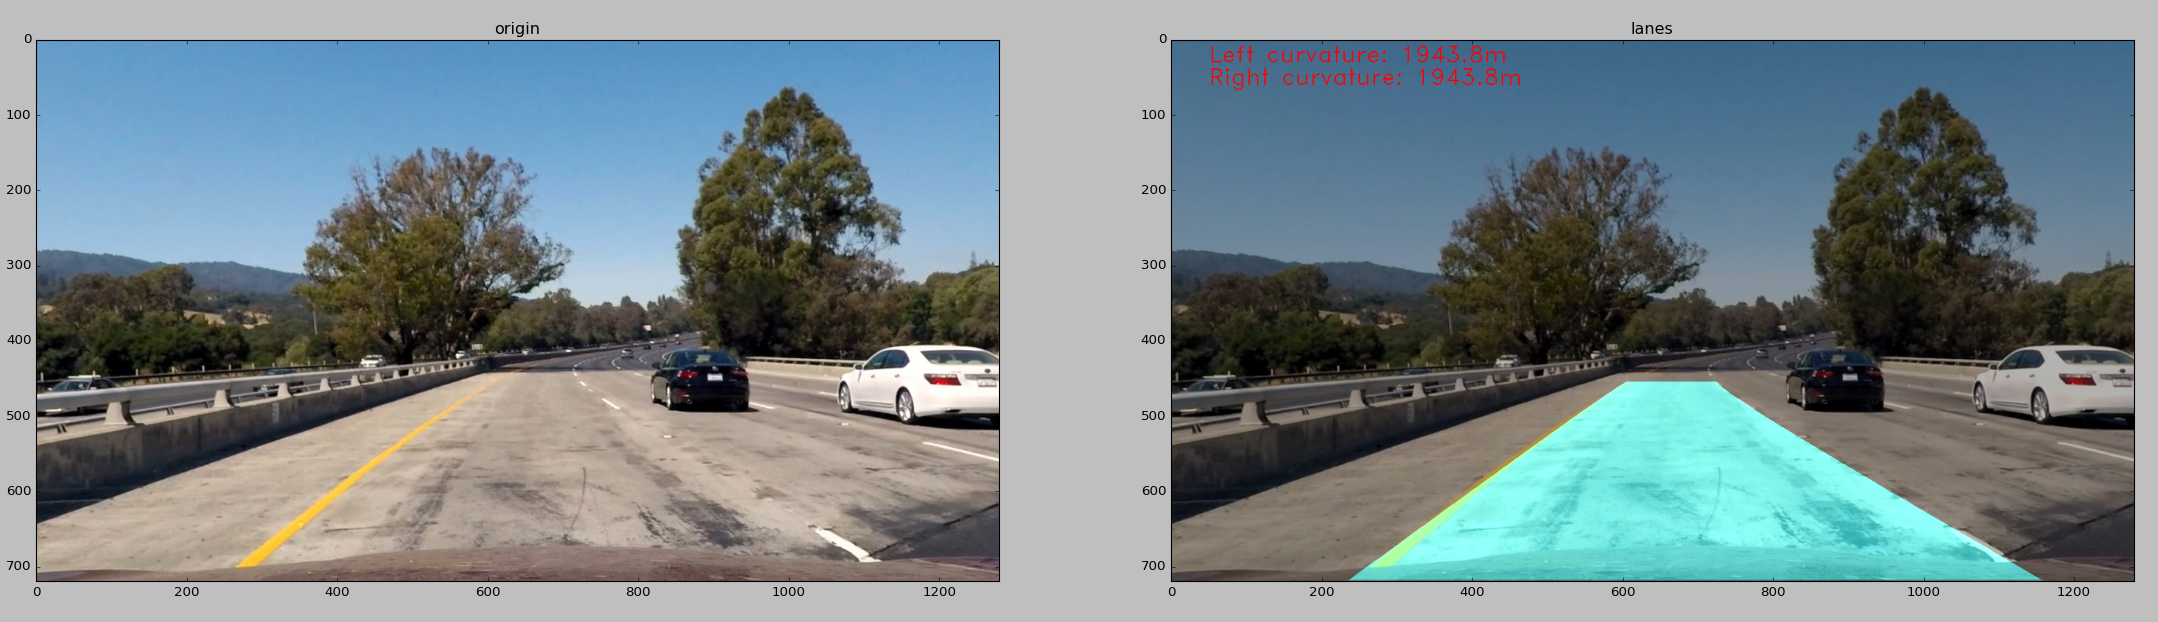
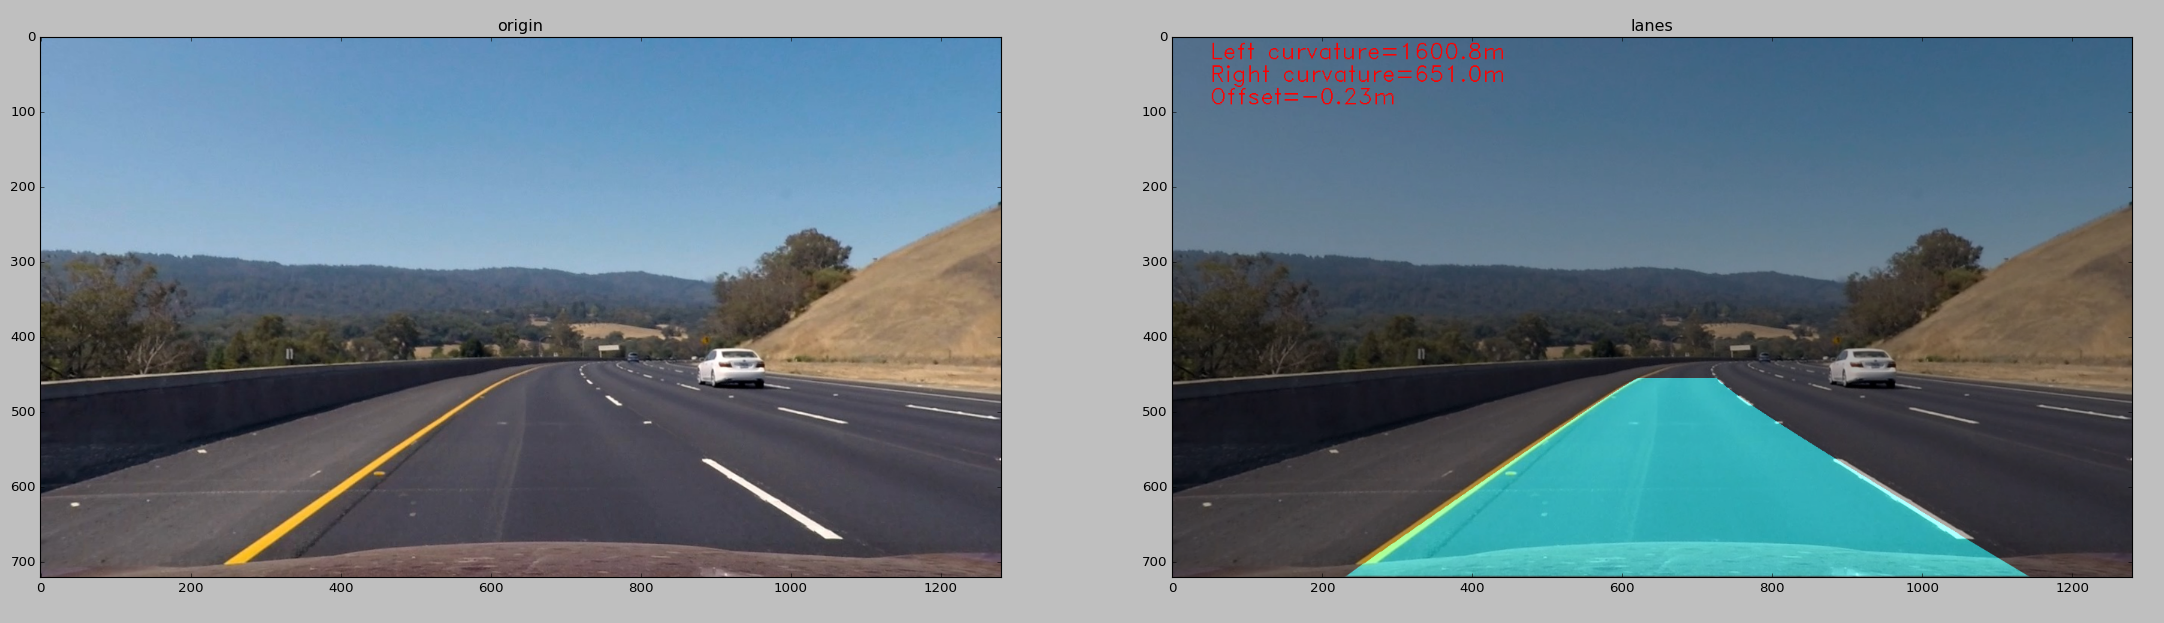
Continue description

diff --git a/pipeline.py b/pipeline.py
@@ -74,8 +74,12 @@ class Lane():
             show_images(im, cpy, 'origin', 'filled warp', 'Fill lanes')
         return fill
     @staticmethod
-    def center(llane, rlane, y=0):
-        return (llane.cross(y) + rlane.cross(y)) // 2
+    def offset(llane, rlane, frame_width=0, y=0):
+        lx = llane.cross(y)
+        rx = rlane.cross(y)
+        scale = 3.7 / np.abs(lx - rx)
+        center = np.mean([lx, rx])
+        return (frame_width/2 - center) * scale
 
 class FrameLanePipeline():
     def __init__(self):
@@ -84,23 +88,20 @@ class FrameLanePipeline():
         self.left_line = None
         self.right_line = None
     def process(self, frame, show=False):
-        """
-        Process function takes RGB image frame.
-        It undistorts and warpes frame to eye bird view. 
-        """
         im = clb.undistort(frame);
         warped = prsp.warp(im)
         masked = custom_mask.apply(warped, show=show)
         lp, rp = self._find_lane_points(masked, num_strips=10, radius=70, show=show)
         height = masked.shape[0]
+        width = masked.shape[1]
         llane = Lane(lp, end=height-1, num=height)
         rlane = Lane(rp, end=height-1, num=height)
-        center = Lane.center(llane, rlane, y=masked.shape[0]-1)
+        offset = Lane.offset(llane, rlane, y=masked.shape[0]-1, frame_width=width)
         lcurv = llane.curvature(height // 2)
         rcurv = rlane.curvature(height // 2)
         fill = Lane.fill_lanes(warped, llane, rlane, show=show)
-        return self._final_frame(im, fill, lcurv, rcurv, show=show)
-    def _final_frame(self, im, fill, lcurv, rcurv,
+        return self._final_frame(im, fill, lcurv, rcurv, offset, show=show)
+    def _final_frame(self, im, fill, lcurv, rcurv, offset,
                      font=cv.FONT_HERSHEY_DUPLEX,
                      scale_font=1, color_font=(255,0,0), 
                      show=False):
@@ -108,18 +109,26 @@ class FrameLanePipeline():
         out = im.copy()
         out = cv.addWeighted(out, 0.7, fill, 0.5, 0)
         xtxt = 50
-        lcurv_text = 'Left curvature: {0:.01f}m'.format(lcurv)
-        rcurv_text = 'Right curvature: {0:.01f}m'.format(lcurv)
+        lcurv_text = 'Left curvature={0:.01f}m'.format(lcurv)
+        rcurv_text = 'Right curvature={0:.01f}m'.format(rcurv)
+        offset_text = 'Offset={0:.02f}m'.format(offset)
         out = cv.putText(out, lcurv_text, (xtxt, 30), font, scale_font, color_font)
         out = cv.putText(out, rcurv_text, (xtxt, 60), font, scale_font, color_font)
+        out = cv.putText(out, offset_text, (xtxt, 90), font, scale_font, color_font)
         if show == True:
             show_images(im, out, 'origin', 'lanes', 'Lanes detected')
         return out
-    def _find_peaks(self, strip_im):
+    def _median_from_distr(self, arr):
+        return np.median(np.concatenate([[i]*v for i, v in enumerate(arr)]))
+    def _find_peaks(self, strip_im, mode='argmax'):
         mid = np.int32(strip_im.shape[1] * .5)
-        lx = strip_im[:,:mid].sum(axis=0).argmax()
-        rx = strip_im[:,mid:].sum(axis=0).argmax() + mid
-        return lx, rx
+        if mode == 'argmax':
+            lx = strip_im[:,:mid].sum(axis=0).argmax()
+            rx = strip_im[:,mid:].sum(axis=0).argmax()
+        elif mode == 'median':
+            lx = np.int32(self._median_from_distr(strip_im[:,:mid].sum(axis=0)))
+            rx = np.int32(self._median_from_distr(strip_im[:,mid:].sum(axis=0)))
+        return lx, rx + mid
     def _nonzero_points(self, nonz, left=((0,200),(720,600)), right=((0,800), (720,1200))):
         # lty => left top y
         # ltx => left top x
@@ -132,7 +141,9 @@ class FrameLanePipeline():
         nonz_l = nonz[:, l]
         nonz_r = nonz[:, r]
         return (nonz_l[0], nonz_l[1]), (nonz_r[0], nonz_r[1])
-    def _find_lane_points(self, im, num_strips=10, radius=70, show=False):
+    def _find_lane_points(self, im, num_strips=10,
+                          radius=80, max_radius=100,
+                          peak_diff=60, show=False):
         strip_height = im.shape[0] // num_strips
         heights = [None] * num_strips
         strips = [None] * num_strips
@@ -149,14 +160,24 @@ class FrameLanePipeline():
         lpeak, rpeak = 0, 0
         for i in range(num_strips):
             if i == 0:
-                lpeak, rpeak = self._find_peaks(im)
-                rad = 100
+                lpeak, rpeak = self._find_peaks(im, mode='argmax')
+                lrad, rrad = max_radius, max_radius
             else:
-                lpeak, rpeak = self._find_peaks(strips[i])
-                rad = radius
+                lpeak_prev, rpeak_prev = peaks[i-1]
+                lpeak, rpeak = self._find_peaks(strips[i], mode='argmax')
+                if np.abs(lpeak_prev - lpeak) > peak_diff:
+                    lpeak = lpeak_prev
+                    lrad = max_radius
+                else:
+                    lrad = radius
+                if np.abs(rpeak_prev - rpeak) > peak_diff:
+                    rpeak = rpeak_prev
+                    rrad = max_radius
+                else:
+                    rrad = radius
+            lbox = ((heights[i][0], lpeak - lrad), (heights[i][1], lpeak + lrad))
+            rbox = ((heights[i][0], rpeak - rrad), (heights[i][1], rpeak + rrad))
             peaks[i] = (lpeak, rpeak)
-            lbox = ((heights[i][0], lpeak - rad), (heights[i][1], lpeak + rad))
-            rbox = ((heights[i][0], rpeak - rad), (heights[i][1], rpeak + rad))
             if show == True:
                 top, bot = lbox[0], lbox[1]
                 cpy = cv.rectangle(cpy, (top[1], top[0]), (bot[1], bot[0]), (i+1,0,0), 2)

diff --git a/README.md b/README.md
@@ -228,11 +228,131 @@ Binary representation:
 ### Detect lane pixels and fit to find the lane boundary.
 #### Criteria: Describe how (and identify where in your code) you identified lane-line pixels and fit their positions with a polynomial?
 
+I used histogram approach to find relevant pixels for right and left lanes. I decided to concentrate on this approach instead of way to sticking and relying on previous found left and right polynomial lines. I just found that it does add accuracy for my model of finding lanes.
+
+
+Let's check the code. Below you can see the pipeline of processing a frame. First it takes frame undistortes it, creates a bird-view, applies masks then searches lanes pixels, builds poly lines for found left and right pixels and finally calculates offset and curvature.
+
+```python
+## pipeline.py
+
+def process(self, frame, show=False):
+    im = clb.undistort(frame);
+    warped = prsp.warp(im)
+    masked = custom_mask.apply(warped, show=show)
+    lp, rp = self._find_lane_points(masked, num_strips=10, radius=70, show=show)
+    height = masked.shape[0]
+    width = masked.shape[1]
+    llane = Lane(lp, end=height-1, num=height)
+    rlane = Lane(rp, end=height-1, num=height)
+    offset = Lane.offset(llane, rlane, y=masked.shape[0]-1, frame_width=width)
+    lcurv = llane.curvature(height // 2)
+    rcurv = rlane.curvature(height // 2)
+    fill = Lane.fill_lanes(warped, llane, rlane, show=show)
+    return self._final_frame(im, fill, lcurv, rcurv, offset, show=show)
+```
+
+The warped and masked frame is splitted on 10 equal stripes. Each stripe is divided on two halves along horizontal line, then sum of pixels along y axes is taken and, using `numpy.argmax()` the peak of histogram is found. Once left and right peaks have been gotten the algorithm produces bound boxes for points which should stay for polynomial fitting. If gotten peaks lie far from previous peaks, it replaces found peaks with previous values. 
+
+```python
+## pipeline.py
+def _find_lane_points(self, im, num_strips=10,
+                      radius=80, max_radius=100,
+                      peak_diff=60, show=False):
+    strip_height = im.shape[0] // num_strips
+    heights = [None] * num_strips
+    strips = [None] * num_strips
+    for i in range(num_strips):
+        s, e = i * strip_height, (i+1) * strip_height
+        heights[-i-1] = (s, e)
+        strips[-i-1] = im[s:e, :]
+    ly, lx = [[]] * num_strips, [[]] * num_strips
+    ry, rx = [[]] * num_strips, [[]] * num_strips
+    nonzeros = np.array(im.nonzero())
+    peaks = [None] * num_strips
+    if show == True:
+        cpy = im.copy()
+    lpeak, rpeak = 0, 0
+    for i in range(num_strips):
+        if i == 0:
+            lpeak, rpeak = self._find_peaks(im, mode='argmax')
+            lrad, rrad = max_radius, max_radius
+        else:
+            lpeak_prev, rpeak_prev = peaks[i-1]
+            lpeak, rpeak = self._find_peaks(strips[i], mode='argmax')
+            if np.abs(lpeak_prev - lpeak) > peak_diff:
+                lpeak = lpeak_prev
+                lrad = max_radius
+            else:
+                lrad = radius
+            if np.abs(rpeak_prev - rpeak) > peak_diff:
+                rpeak = rpeak_prev
+                rrad = max_radius
+            else:
+                rrad = radius
+        lbox = ((heights[i][0], lpeak - lrad), (heights[i][1], lpeak + lrad))
+        rbox = ((heights[i][0], rpeak - rrad), (heights[i][1], rpeak + rrad))
+        peaks[i] = (lpeak, rpeak)
+        if show == True:
+            top, bot = lbox[0], lbox[1]
+            cpy = cv.rectangle(cpy, (top[1], top[0]), (bot[1], bot[0]), (i+1,0,0), 2)
+            top, bot = rbox[0], rbox[1]
+            cpy = cv.rectangle(cpy, (top[1], top[0]), (bot[1], bot[0]), (i+1,0,0), 2)
+        (ly[i], lx[i]), (ry[i], rx[i]) = self._nonzero_points(nonzeros, left=lbox, right=rbox)
+    left = (np.concatenate(ly), np.concatenate(lx))
+    right = (np.concatenate(ry), np.concatenate(rx))
+    if show == True:
+        filtered = np.zeros(im.shape[:2])
+        filtered[left[0],left[1]] = 1
+        filtered[right[0],right[1]] = 1
+        show_images(filtered, cpy, 'filtered', 'regions', 'Found points', cmap1='gray')
+    return left, right
+```
+
+Here is listed auxilary functions. For example `_median_from_distr()` computes median x index of histogram. The `_find_peaks()` can be run in two modes: `median` and `argmax` search of peak. And the `_nonzero_points()` just picks only those pixels which are bounded by left and right rectangle:
+
+```python
+## pipeline.py
+def _median_from_distr(self, arr):
+    return np.median(np.concatenate([[i]*v for i, v in enumerate(arr)]))
+def _find_peaks(self, strip_im, mode='argmax'):
+    mid = np.int32(strip_im.shape[1] * .5)
+    if mode == 'argmax':
+        lx = strip_im[:,:mid].sum(axis=0).argmax()
+        rx = strip_im[:,mid:].sum(axis=0).argmax()
+    elif mode == 'median':
+        lx = np.int32(self._median_from_distr(strip_im[:,:mid].sum(axis=0)))
+        rx = np.int32(self._median_from_distr(strip_im[:,mid:].sum(axis=0)))
+    return lx, rx + mid
+def _nonzero_points(self, nonz, left=((0,200),(720,600)), right=((0,800), (720,1200))):
+    # lty => left top y
+    # ltx => left top x
+    # lby => left bottom y
+    # lbx => left bottom x
+    (lty, ltx), (lby, lbx) = left
+    (rty, rtx), (rby, rbx) = right
+    l = (nonz[0] >= lty) & (nonz[0] < lby) & (nonz[1] > ltx) & (nonz[1] <= lbx)
+    r = (nonz[0] >= rty) & (nonz[0] < rby) & (nonz[1] > rtx) & (nonz[1] <= rbx)
+    nonz_l = nonz[:, l]
+    nonz_r = nonz[:, r]
+    return (nonz_l[0], nonz_l[1]), (nonz_r[0], nonz_r[1])
+```
+
+I played a bit with different functions for searching peak of histogram. For e.g. I thought that it would be better to use `median` instead of maximum value, but I got worse results on video with it.
+
+Failed run with median calculation of 
+![Alt text](project/fail.png)
+
+```python
+### pipeline.py
+
+
+```
+
 ![Alt text](project/unwarped_result.png)
 
 ### Determine the curvature of the lane and vehicle position with respect to center.
 #### Criteria: Describe how (and identify where in your code) you calculated the radius of curvature of the lane and the position of the vehicle with respect to center.
-
 
 ### Warp the detected lane boundaries back onto the original image.
 #### Criteria: Provide an example image of your result plotted back down onto the road such that the lane area is identified clearly.
